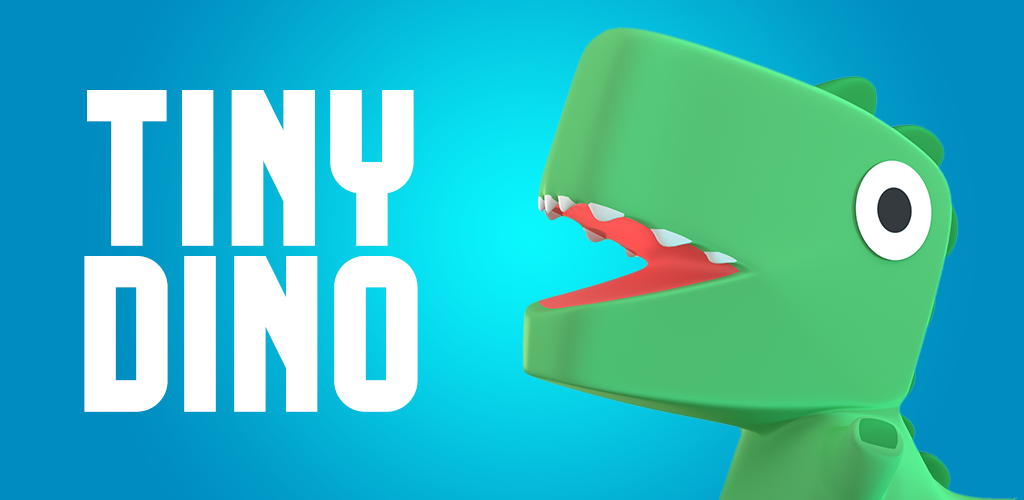
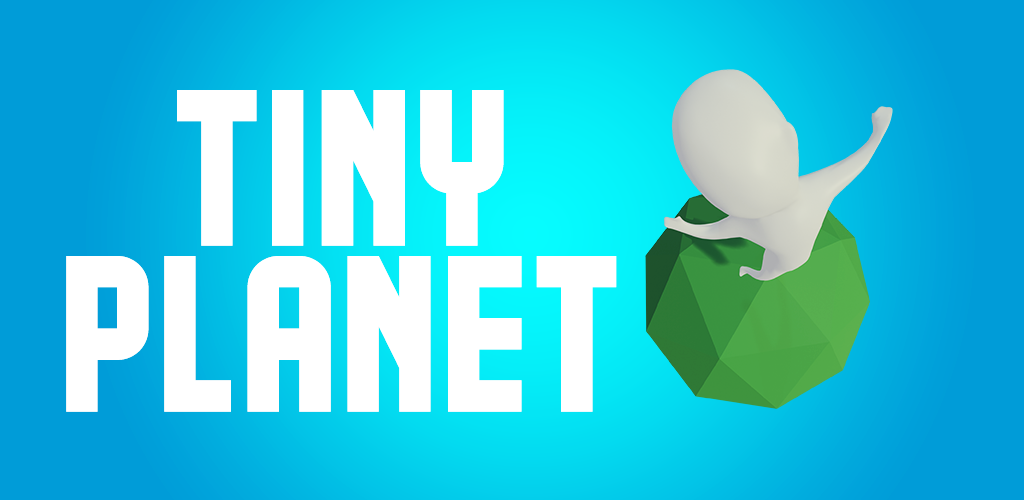
tiny planet

diff --git a/Privacy/privacy_policy_tiny.html b/Privacy/privacy_policy_tiny.html
@@ -8,8 +8,8 @@
     </head>
     <body>
     <h2>Privacy Policy</h2> <p>
-                    Cole Chittim built the Tiny Dino: Extinction app as
-                    an Ad Supported app. This SERVICE is provided by
+                    Cole Chittim built the Tiny Planet: Extinction app as
+                    a Free app. This SERVICE is provided by
                     Cole Chittim at no cost and is intended for
                     use as is.
                   </p> <p>
@@ -28,7 +28,7 @@
                   </p> <p>
                     The terms used in this Privacy Policy have the same meanings
                     as in our Terms and Conditions, which is accessible at
-                    Tiny Dino: Extinction unless otherwise defined in this Privacy
+                    Tiny Planet: Extinction unless otherwise defined in this Privacy
                     Policy.
                   </p> <p><strong>Information Collection and Use</strong></p> <p>
                     For a better experience, while using our Service,
